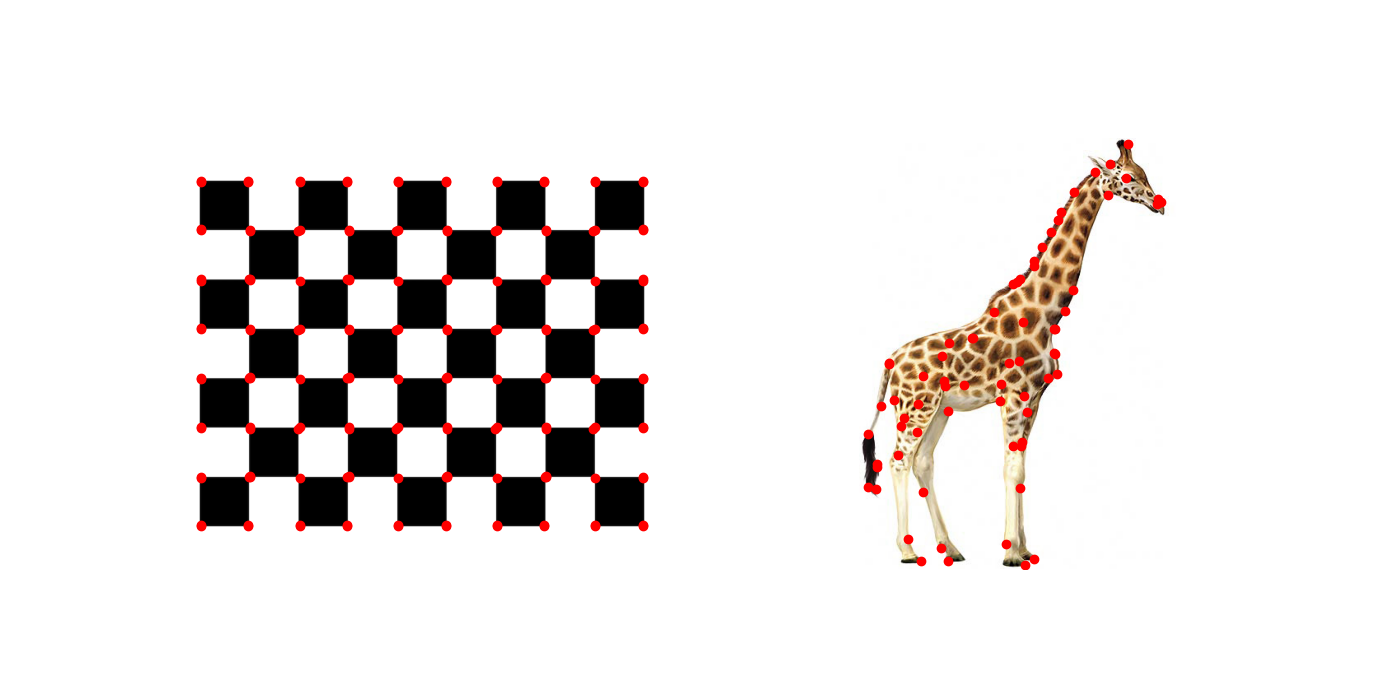
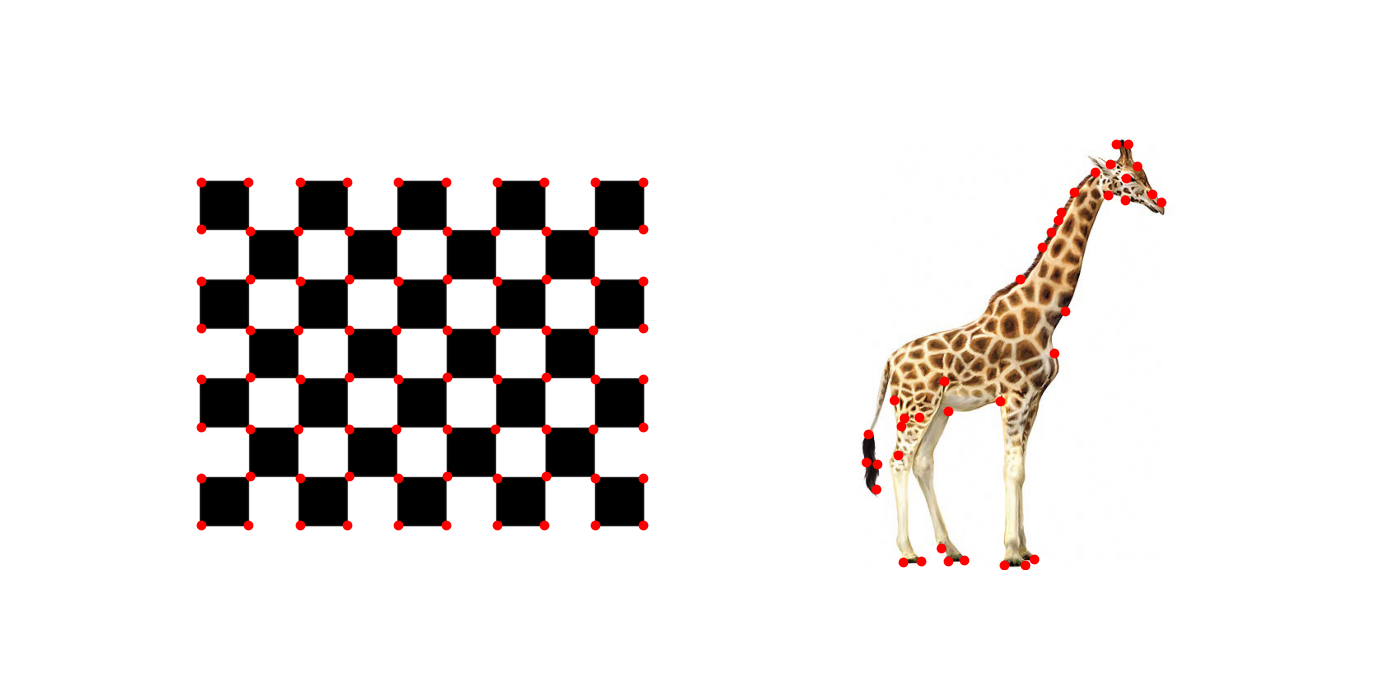
fixed the harris corner detector multiplicity

diff --git a/harris_corner_detector.py b/harris_corner_detector.py
@@ -14,7 +14,7 @@ ID2 = '320521461'
 # Harris corner detector parameters - you may change them.
 K = 0.025
 CHECKERBOARD_THRESHOLD = 3e7
-GIRAFFE_THRESHOLD = 5.5e7
+GIRAFFE_THRESHOLD = 4.5e9
 BUTTERFLY_IMAGE = 'butterfly.jpg'
 
 # Do not change the following constants:
@@ -266,25 +266,37 @@ def our_harris_corner_detector(input_image: np.ndarray, K: float,
     new_image = image_tiles_to_black_and_white_image(new_tiles,h,w)
     output_image = np.zeros(response_image.shape)
     output_image = np.where(new_image > threshold,1,0)
-    idx = np.nonzero(output_image)
-    idx=list( zip(idx[0],idx[1]))
+    idx1 = np.nonzero(output_image)
+    idx1=list( zip(idx1[0],idx1[1]))
     i=0
-    count1 = len(idx) 
-    while (i<len(idx)-1):
-        delta = np.sqrt(np.abs(idx[i][0]- idx[i+1][0])^2+ np.abs(idx[i][1]- idx[i+1][1])^2)
-        if delta <=11:
-            temp =idx[i] 
-            if response_image[idx[i][0],idx[i][1]]<=response_image[idx[i+1][0],idx[i+1][1]]: 
-                output_image[idx[i][0],idx[i][1]] = 0
-            else:
-               output_image[idx[i+1][0],idx[i+1][1]] = 0 
-            i+=2
-        else:
-            i+=1
+    count1 = len(idx1) 
+    print('idx1 = {}'.format(idx1))
     
+        
+    while (i<len(idx1)):
+        j=0
+        idx2 = np.nonzero(output_image)
+        idx2=list( zip(idx2[0],idx2[1]))
+        while (j<len(idx2)):
+
+            delta = np.abs(idx1[i][0]- idx2[j][0])+ np.abs(idx1[i][1]- idx2[j][1]) #np.sqrt(np.abs(idx[i][0]- idx[j][0])**2+ np.abs(idx[i][1]- idx[j][1])**2)
+            temp1 =idx2[j] 
+            temp2 =idx1[i]
+            if delta <=10 and delta != 0:
+                 
+                if response_image[idx1[i][0],idx1[i][1]]<=response_image[idx2[j][0],idx2[j][1]]: 
+                    output_image[idx1[i][0],idx1[i][1]] = 0
+                else:
+                    output_image[idx2[j][0],idx2[j][1]] = 0 
+                j+=2
+            else:
+                j+=1
+        i+=1
+       
     idx = np.nonzero(output_image)
     idx=list( zip(idx[0],idx[1]))
     count2 = len(idx)
+    print('idx2 = {}'.format(idx))
 
 
 
